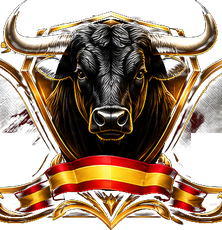
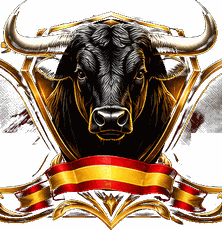
Revisión de fallos: bancarrota definitiva, plazo de ofertas, pantalla completa e imágenes más ligeras
Claude-Session: https://claude.ai/code/session_01UEz6UKm7eRVhhfCF1Qj26a

diff --git a/sw.js b/sw.js
@@ -1,5 +1,5 @@
 // Caché para jugar sin conexión una vez cargado
-const V='hierro-divisa-v85';
+const V='hierro-divisa-v86';
 const ARCHIVOS=['./', 'css/unificado.css', 'fonts/playfair-display-latin-700-italic.woff2', 'fonts/cinzel-decorative-latin-900-normal.woff2', 'js/sin-corro.js', 'img/carga-2.jpg', 'img/carga-1.jpg', 'fonts/anton-latin-400-normal.woff2', 'js/banderillas.js', 'js/historia.js', 'js/tema-violeta.js', 'css/tema-gta.css', 'css/tema-hd.css', 'css/tema-violeta.css', 'img/ui/tab-inicio.jpg', 'img/ui/tab-finca.jpg', 'img/ui/tab-camada.jpg', 'img/ui/tab-ofertas.jpg', 'img/ui/tab-mercado.jpg', 'img/ui/tab-tareas.jpg', 'img/ui/tab-palmares.jpg', 'index.html', 'ruedo.html', 'js/ruedo.js', 'js/movil.js', 'js/libs/OrbitControls.js', 'js/libs/Sky.js', 'modelos/toro-ruedo.glb', 'css/estilo.css', 'css/moderno.css', 'css/fuentes.css', 'fonts/barlow-condensed-latin-500-normal.woff2', 'fonts/barlow-condensed-latin-600-italic.woff2', 'fonts/barlow-condensed-latin-600-normal.woff2', 'fonts/barlow-condensed-latin-700-italic.woff2', 'fonts/barlow-condensed-latin-700-normal.woff2', 'fonts/barlow-condensed-latin-800-italic.woff2', 'fonts/barlow-condensed-latin-800-normal.woff2', 'fonts/barlow-latin-400-normal.woff2', 'fonts/barlow-latin-500-normal.woff2', 'fonts/barlow-latin-600-normal.woff2', 'fonts/barlow-latin-700-normal.woff2', 'fonts/cinzel-latin-600-normal.woff2', 'fonts/cinzel-latin-700-normal.woff2', 'js/juego.js', 'js/mundo3d.js', 'js/carrera.js', 'js/musica.js', 'js/sonido.js', 'js/corro.js', 'js/calle.js', 'js/calle2.js', 'js/calle3.js', 'js/plazamayor.js', 'js/plazas-pueblos.js', 'js/corro-fuego.js', 'js/corro-props.js', 'js/corro-fisicas.js', 'js/localidades.js', 'js/gfx.js', 'js/extras.js', 'js/divisas.js', 'js/casa.js', 'js/finca2.js', 'js/lidia.js', 'js/fx.js', 'js/menu.js', 'js/modelos.js', 'js/toros3d.js', 'js/toro3.js', 'js/torero3d.js', 'js/torero.js', 'js/estabilidad.js', 'js/panel.js', 'js/clima.js', 'js/finca3.js', 'js/finca4.js', 'js/jinetes.js', 'js/genetica.js', 'js/economia.js', 'js/rendimiento.js', 'js/uipro.js', 'js/pulido.js', 'js/navbar.js', 'js/calendario.js', 'js/texturas.js', 'js/calidad.js','js/corro-rendimiento.js','js/resultado.js', 'js/carga.js','js/interfaz.js','css/interfaz.css', 'js/hierros.js', 'css/carga.css', 'img/carga.jpg', 'img/carga-m.jpg', 'modelos/natura.gltf.json', 'img/nav-toro.png', 'img/nav/c_con.png', 'img/nav/c_ini.png', 'img/nav/c_inv.png', 'img/nav/c_mer.png', 'img/nav/c_res.png', 'img/nav/camada.png', 'img/nav/drapeL.png', 'img/nav/drapeR.png', 'img/nav/finca.png', 'img/nav/inicio.png', 'img/nav/mercado.png', 'img/nav/ofertas.png', 'img/nav/palmares.png', 'img/nav/tareas.png', 'img/tex/albero.jpg', 'img/tex/asfalto-n.jpg', 'img/tex/asfalto.jpg', 'img/tex/detalle.jpg', 'img/tex/tierra-n.jpg', 'js/libs/three.min.js', 'js/libs/GLTFLoader.js', 'js/libs/SkeletonUtils.js', 'js/libs/BufferGeometryUtils.js', 'modelos/persona.glb', 'modelos/caballo.glb', 'modelos/persona2.gltf.json', 'modelos/toro.glb', 'modelos/toro-tripo.glb', 'modelos/toro-tripo-lo.glb', 'modelos/vaca.glb', 'manifest.webmanifest', 'img/cabeza.jpg', 'img/calle.jpg', 'img/calle-nit.jpg', 'img/cuerno.jpg', 'img/dehesa.jpg', 'img/hero.jpg', 'img/icono-192.png', 'img/icono-512.png', 'img/palco.jpg', 'img/plaza-1.jpg', 'img/plaza-2.jpg', 'img/toro-cardeno-0.jpg', 'img/toro-cardeno-1.jpg', 'img/toro-cardeno-2.jpg', 'img/toro-cardeno-3.jpg', 'img/toro-cardeno-4.jpg', 'img/toro-cardeno-5.jpg', 'img/toro-cardeno-6.jpg', 'img/toro-cardeno-7.jpg', 'img/toro-castano-0.jpg', 'img/toro-castano-1.jpg', 'img/toro-castano-2.jpg', 'img/toro-castano-3.jpg', 'img/toro-castano-4.jpg', 'img/toro-castano-5.jpg', 'img/toro-castano-6.jpg', 'img/toro-castano-7.jpg', 'img/toro-colorado-0.jpg', 'img/toro-colorado-1.jpg', 'img/toro-colorado-2.jpg', 'img/toro-colorado-3.jpg', 'img/toro-colorado-4.jpg', 'img/toro-colorado-5.jpg', 'img/toro-colorado-6.jpg', 'img/toro-colorado-7.jpg', 'img/toro-jabonero-0.jpg', 'img/toro-jabonero-1.jpg', 'img/toro-jabonero-2.jpg', 'img/toro-jabonero-3.jpg', 'img/toro-jabonero-4.jpg', 'img/toro-jabonero-5.jpg', 'img/toro-jabonero-6.jpg', 'img/toro-jabonero-7.jpg', 'img/toro-negro-0.jpg', 'img/toro-negro-1.jpg', 'img/toro-negro-2.jpg', 'img/toro-negro-3.jpg', 'img/toro-negro-4.jpg', 'img/toro-negro-5.jpg', 'img/toro-negro-6.jpg', 'img/toro-negro-7.jpg', 'img/toro-sombra.jpg', 'js/dehesa.js', 'js/mando.js'];
 self.addEventListener('install',e=>{e.waitUntil(caches.open(V).then(c=>c.addAll(ARCHIVOS)).then(()=>self.skipWaiting()))});
 self.addEventListener('activate',e=>{e.waitUntil(caches.keys().then(k=>Promise.all(k.filter(x=>x!==V).map(x=>caches.delete(x)))).then(()=>self.clients.claim()))});

diff --git a/js/juego.js b/js/juego.js
@@ -190,7 +190,7 @@ function est(a){
 
 /* ============ avance de mes ============ */
 function log(t){S.log.unshift({d:`${MESES[S.month].slice(0,3)} ${S.year}`,t});S.log=S.log.slice(0,60)}
-function advance(){
+function advance(){if(S&&S.over)return gameOver();
  const rep={lines:[],corridas:[],cost:0,inc:0};
  const n=campo().length;
  // fin de año
@@ -600,7 +600,7 @@ function rerStart(){const y=window.scrollY;render();window.scrollTo(0,y)}
 function startReal(i){const g=GANADERIAS[i];newGame({real:true,name:g.name,enc:g.enc,pres:g.pres,div:g.div,hierro:{l:g.name[0],a:'none'},prov:''})}
 function startNew(){const n=NEWG.name.trim();if(!n){toast('Ponle nombre a tu ganadería');$('#ng-name').focus();return}
  newGame({real:false,name:n,enc:NEWG.enc,div:[NEWG.c1,NEWG.c2],hierro:{l:(NEWG.l.trim()||n[0]),a:NEWG.a},prov:NEWG.prov,fund:2027})}
-function continuar(){S=load();if(!S.animals){S=null;return}migrate(S);if(!S.mej)S.mej=S.g.real?{placita:1,corrales:1,comederos:1,abrev:1,cercas:1,casa:1}:{};UI.tab='inicio';render()}
+function continuar(){S=load();if(!S.animals){S=null;return}migrate(S);if(!S.mej)S.mej=S.g.real?{placita:1,corrales:1,comederos:1,abrev:1,cercas:1,casa:1}:{};UI.tab='inicio';render();if(S.over)gameOver()}
 
 /* ============ INICIO ============ */
 function offerCard(o){
@@ -616,7 +616,7 @@ function offerCard(o){
    <div class="m">${ICO.feria.replace('<svg','<svg class="ico"')}<span>${esc(o.feria)}</span></div>
   </div>
   ${o.st==='nueva'?`<div class="acts"><button class="btn pri" ${elig<o.n?'disabled':''} onclick="resena(${o.id})">Reseñar toros (${elig} aptos)${ICO.chev}</button><button class="btn" onclick="rechazar(${o.id})">Rechazar${ICO.chev}</button></div>
-   ${elig<o.n?`<div class="note" style="color:var(--warn)">Te faltan animales aptos: necesitas ${o.n} ${o.tipo==='novillada'?'erales o utreros':'cuatreños o cinqueños'} de ${min} kg o más, sin tentar.</div>`:''}<div class="note">Responde antes de ${MESES[(o.abs-1+12)%12]}.</div>`
+   ${elig<o.n?`<div class="note" style="color:var(--warn)">Te faltan animales aptos: necesitas ${o.n} ${o.tipo==='novillada'?'erales o utreros':'cuatreños o cinqueños'} de ${min} kg o más, sin tentar.</div>`:''}<div class="note">${o.abs-absNow()<=1?'Responde este mes: el mes que viene ya es tarde.':`Tienes hasta final de ${MESES[(o.abs-1+12)%12].toLowerCase()} para responder.`}</div>`
   :`<div style="font-size:.9rem">${o.toros.map(id=>{const a=byId(id);return a?`${esc(a.name)} <span class="mono muted">${a.num}</span>`:''}).join(' · ')}</div><div class="note">Total: ${eur(o.precio*o.toros.length)} al lidiarse.</div>`}
  </article>`}
 /* ============ TAREAS ============ */
@@ -874,7 +874,8 @@ function spark(){const d=S.presHist;const W=600,H=120,p=24;const xs=i=>p+i*(W-2*
  <polygon points="${xs(0)},${H-p} ${pts} ${xs(d.length-1)},${H-p}" fill="rgba(230,187,85,.15)"/><polyline points="${pts}" fill="none" stroke="var(--oro)" stroke-width="2.5"/>
  ${d.map((x,i)=>`<circle cx="${xs(i)}" cy="${ys(x.p)}" r="${i===d.length-1?5:3}" fill="var(--oro)"/><text x="${xs(i)}" y="${H-6}" fill="var(--muted)" font-size="11" text-anchor="middle">${x.y}</text>`).join('')}</svg>`}
 function resetGame(){try{localStorage.removeItem(KEY)}catch(e){}S=null;render()}
-function gameOver(){modal('Bancarrota',`<div class="stack"><p style="margin:0">El banco ejecuta la deuda y la finca sale a subasta. ${esc(S.g.name)} cierra con ${S.stats.toros} toros lidiados y ${S.stats.indultos} indultos.</p><button class="btn pri adv" onclick="closeModal();resetGame()">Empezar otra carrera</button></div>`)}
+/* la bancarrota es definitiva: queda guardada y la ventana vuelve a salir si se cierra (antes se podía cerrar y seguir jugando con deudas sin fin) */
+function gameOver(){S.over=true;try{save()}catch(e){}modal('Bancarrota',`<div class="stack"><p style="margin:0">El banco ejecuta la deuda y la finca sale a subasta. ${esc(S.g.name)} cierra con ${S.stats.toros} toros lidiados y ${S.stats.indultos} indultos.</p><button class="btn pri adv" onclick="S.over=false;closeModal(true);resetGame()">Empezar otra carrera</button></div>`,()=>{if(S&&S.over)setTimeout(gameOver,0)})}
 
 /* ============ informe mensual ============ */
 function showReport(rep){if(!rep)return;if(!rep.corridas)rep={...rep,corridas:(rep.cor||[]).map(id=>S.hist.find(h=>h.id===id)).filter(Boolean)};

diff --git a/js/carga.js b/js/carga.js
@@ -42,7 +42,10 @@ function cgEnvolver(n){const f=window[n];if(typeof f!=='function'||f.__cg)return
 /* botones que entran en 3D: primero se pinta la pantalla de carga y luego se monta la escena */
 document.addEventListener('click',e=>{if(!e.isTrusted||CG.on||e.__cg)return;const el=e.target&&e.target.closest&&e.target.closest('[onclick]');if(!el)return;
  const s=el.getAttribute('onclick')||'';if(!CG.rx.test(s)||typeof el.onclick!=='function')return;
- e.stopPropagation();e.preventDefault();const m=/enterPlaza\((\d+)\)/.exec(s);cargaMostrar(m?cgDestino('enterPlaza',[+m[1]]):/calCorrida|irPlaza/.test(s)?'Plaza de toros':/irCalle|calCorro/.test(s)?'Festejo popular':cgDestino('enterFinca',[]));CG.dest=1;
+ e.stopPropagation();e.preventDefault();
+ /* la plaza a pantalla completa en el móvil: hay que pedirlo ahora, mientras dura el toque (luego el navegador lo rechaza) */
+ try{const de=document.documentElement;if(/enterPlaza|irPlaza|calCorrida/.test(s)&&!document.fullscreenElement&&de.requestFullscreen&&matchMedia('(pointer:coarse)').matches)de.requestFullscreen().catch(()=>{})}catch(err){}
+ const m=/enterPlaza\((\d+)\)/.exec(s);cargaMostrar(m?cgDestino('enterPlaza',[+m[1]]):/calCorrida|irPlaza/.test(s)?'Plaza de toros':/irCalle|calCorro/.test(s)?'Festejo popular':cgDestino('enterFinca',[]));CG.dest=1;
  requestAnimationFrame(()=>requestAnimationFrame(()=>{CG.dest=0;try{el.onclick.call(el,e)}catch(err){console.error(err)}
   if(!(typeof W3!=='undefined'&&W3.on)&&!(typeof RD!=='undefined'&&RD.on))cargaOcultar(0)}))},true);
 /* al abrir el juego */

diff --git a/js/ruedo.js b/js/ruedo.js
@@ -20,7 +20,7 @@ function ruedoAbrir(id){const r=S.hist.find(h=>h.id===id);if(!r||!r.toros||!r.to
  el.innerHTML='<iframe src="ruedo.html" title="Corrida en directo" allow="fullscreen; autoplay"></iframe><button id="ruedoX" type="button" aria-label="Salir de la corrida">✕ Salir</button>';document.body.appendChild(el);
  /* salida de respaldo fuera del marco: funciona aunque la corrida no responda */el.querySelector('#ruedoX').addEventListener('click',()=>ruedoCerrar(true));
  /* el botón «atrás» del móvil cierra la corrida */try{history.pushState({ruedo:1},'')}catch(e){}document.body.style.overflow='hidden';
- RD.el=el;RD.fr=el.querySelector('iframe');try{el.requestFullscreen&&matchMedia('(pointer:coarse)').matches&&el.requestFullscreen().catch(()=>{})}catch(e){}
+ RD.el=el;RD.fr=el.querySelector('iframe');try{const ua=navigator.userActivation;if(el.requestFullscreen&&!document.fullscreenElement&&matchMedia('(pointer:coarse)').matches&&(!ua||ua.isActive))el.requestFullscreen().catch(()=>{})}catch(e){}
  try{navigator.wakeLock&&navigator.wakeLock.request('screen').catch(()=>{})}catch(e){}return true}
 addEventListener('message',e=>{const d=e.data;if(!RD.on||!d||typeof d.ruedo!=='string'||!RD.fr||e.source!==RD.fr.contentWindow)return;
  if(d.ruedo==='listo')ruedoEnviar();

diff --git a/CHANGELOG.md b/CHANGELOG.md
@@ -1,5 +1,11 @@
 # Cambios
 
+## Revisión de fallos
+- Bancarrota definitiva: antes la ventana se podía cerrar y se seguía jugando con deudas sin fin (en una prueba de 4 años se llegó a −216.000 €). Ahora queda guardada, la ventana vuelve a salir y «Avanzar» no deja seguir.
+- Ofertas: el plazo decía «Responde antes de Febrero» estando ya en febrero (en realidad se puede responder todo el mes). Ahora dice «Responde este mes» o «Tienes hasta final de …».
+- Plaza a pantalla completa en el móvil: se pedía después de la pantalla de carga, cuando el navegador ya no lo permite (y daba un error). Ahora se pide en el mismo toque.
+- Imágenes de la barra inferior y los iconos de la aplicación comprimidas sin pérdida visible: de 611 KB a 139 KB.
+
 ## Ganadería de corro: cada plaza con su tamaño y proporciones reales
 - Hasta ahora todas las plazas medían 28 × 22 m. Ahora cada pueblo tiene las suyas:
   - Peníscola: 22 × 17 m, en lo alto del peñón;
